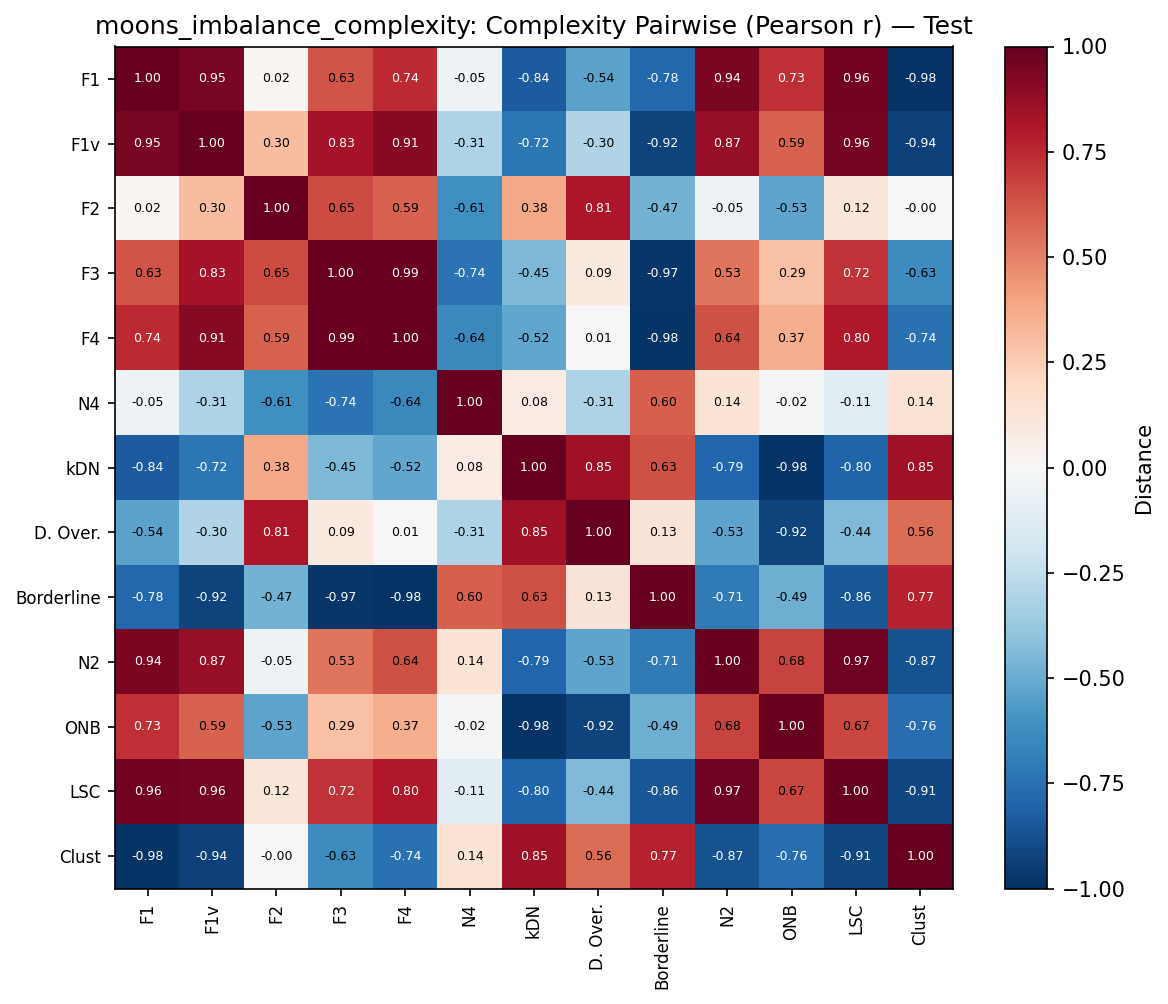
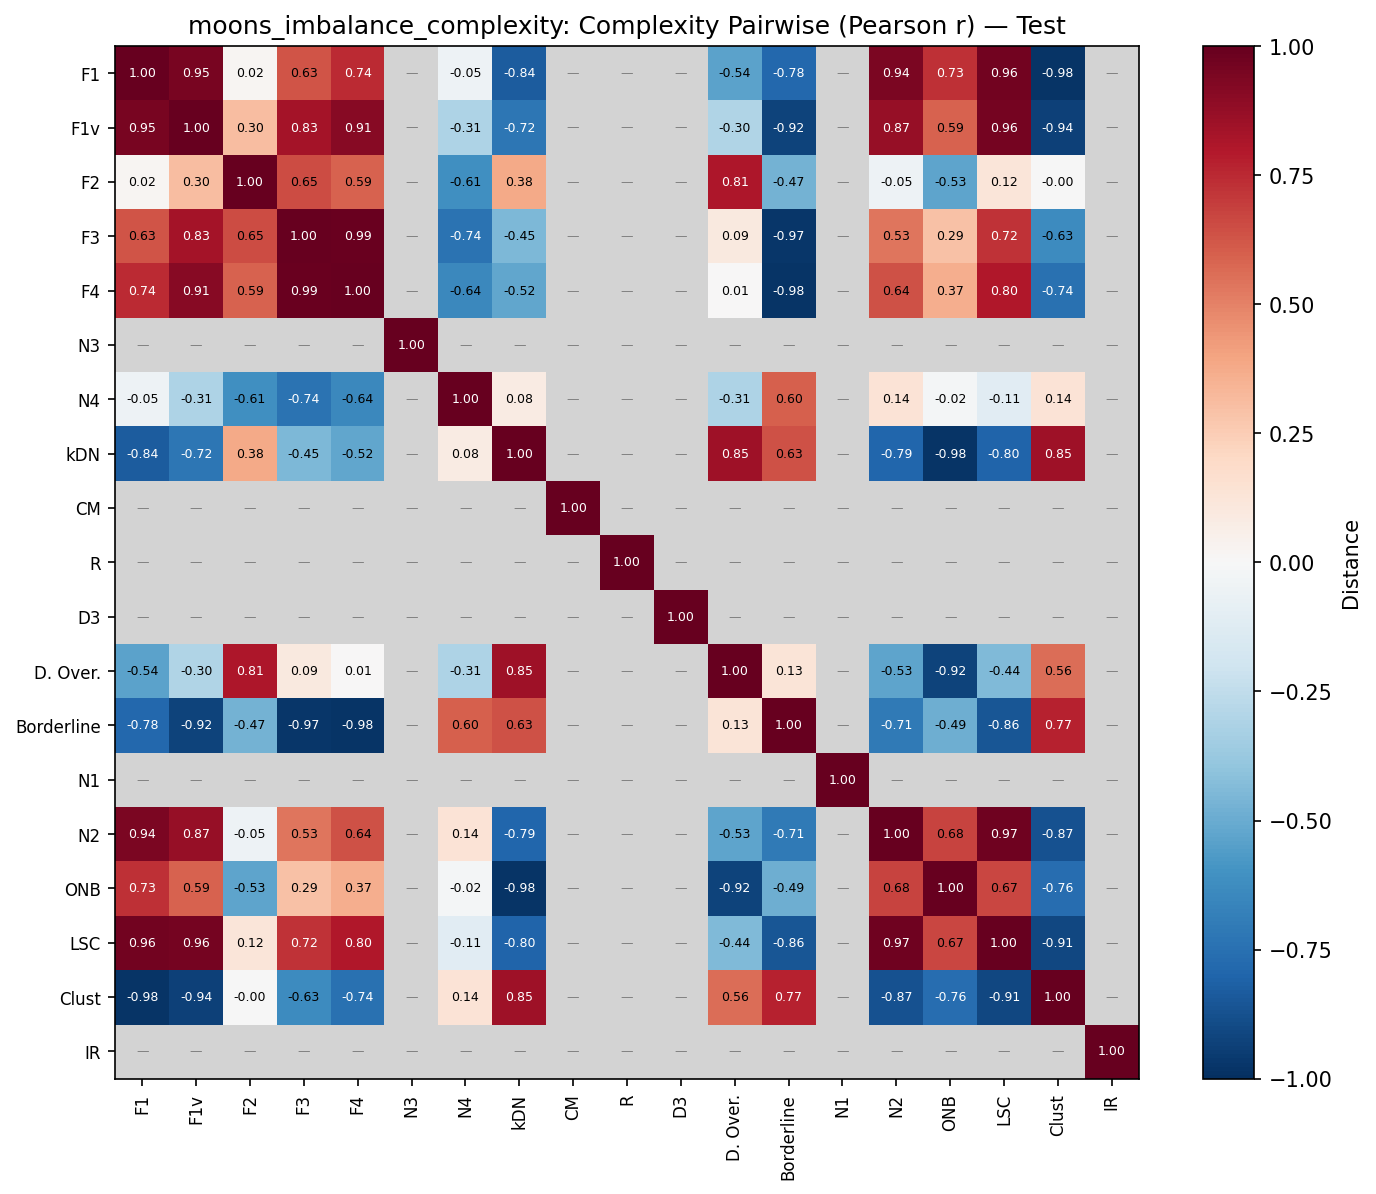
have nan as grey is pairwwise heatmap

diff --git a/data_complexity/experiments/plotting.py b/data_complexity/experiments/plotting.py
@@ -984,7 +984,11 @@ def plot_pairwise_heatmap(
     fig_size = max(8, n * 0.5)
     fig, ax = plt.subplots(figsize=(fig_size, fig_size * 0.85))
 
-    im = ax.imshow(corr_matrix.values, cmap="RdBu_r", vmin=-1, vmax=1, aspect="auto")
+    values = corr_matrix.values.astype(float)
+    masked_values = np.ma.masked_invalid(values)
+    cmap = plt.cm.RdBu_r.copy()
+    cmap.set_bad("lightgray")
+    im = ax.imshow(masked_values, cmap=cmap, vmin=-1, vmax=1, aspect="auto")
     plt.colorbar(im, ax=ax, label="Distance")
 
     ax.set_xticks(range(n))
@@ -995,9 +999,11 @@ def plot_pairwise_heatmap(
     for i in range(n):
         for j in range(n):
             val = corr_matrix.iloc[i, j]
-            text_color = "white" if abs(val) > 0.7 else "black"
-            ax.text(j, i, f"{val:.2f}", ha="center", va="center",
-                    fontsize=6, color=text_color)
+            if np.isnan(val):
+                ax.text(j, i, "\u2014", ha="center", va="center", fontsize=6, color="gray")
+            else:
+                text_color = "white" if abs(val) > 0.7 else "black"
+                ax.text(j, i, f"{val:.2f}", ha="center", va="center", fontsize=6, color=text_color)
 
     ax.set_title(title)
     fig.tight_layout()

diff --git a/data_complexity/experiments/pipeline/distances.py b/data_complexity/experiments/pipeline/distances.py
@@ -146,12 +146,13 @@ def compute_complexity_pairwise_distances(
             c for c in complexity_df.columns
             if c not in ("param_value", "param_label") and not c.endswith("_std")
         ]
-        valid_cols = [c for c in metric_cols if complexity_df[c].std() > 0]
-        if not valid_cols:
+        if not metric_cols:
             return None
-        return complexity_df[valid_cols].corr(
-            method=lambda x, y: measure.compute(x, y)[0]
-        )
+        with warnings.catch_warnings():
+            warnings.simplefilter("ignore", (NearConstantInputWarning, ConstantInputWarning))
+            return complexity_df[metric_cols].corr(
+                method=lambda x, y: measure.compute(x, y)[0]
+            )
 
     for measure in measures:
         train_mat = _compute_for_source("train", measure)
